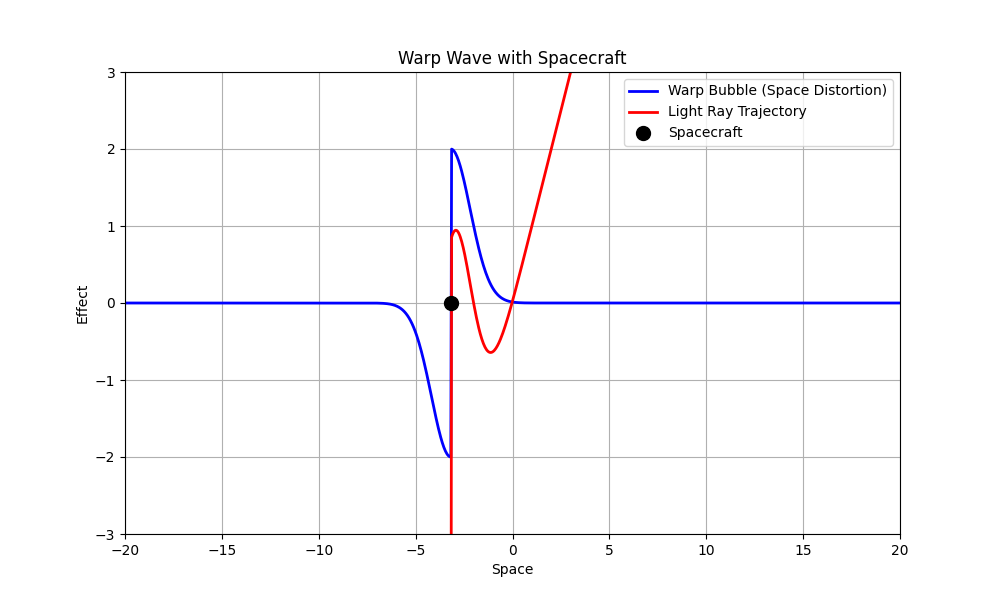
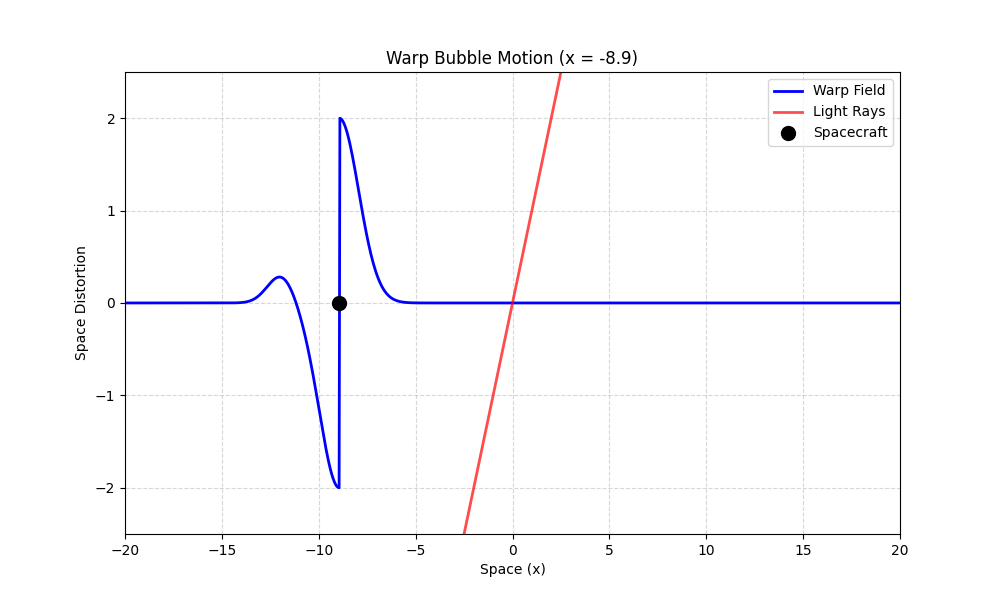
modified:   warp.png modified:   warp.py modified:   warp_wave_simulation.gif

diff --git a/warp.py b/warp.py
@@ -1,97 +1,87 @@
 import numpy as np
 import matplotlib.pyplot as plt
 from matplotlib.animation import FuncAnimation
+from PIL import Image  # For GIF export (optional)
 
-# Define the warp bubble function with space contraction and expansion
+# ===== Physics Functions =====
 def warp_bubble(x, x0, sigma, contraction_strength=1.0, expansion_strength=1.0):
-    """
-    x: Position in space
-    x0: Center of the warp bubble
-    sigma: Width of the warp bubble
-    contraction_strength: Strength of space contraction in front of the bubble
-    expansion_strength: Strength of space expansion behind the bubble
-    """
-    # Gaussian-shaped warp bubble
+    """Generates a warp bubble with contraction, expansion, and a wake effect."""
     bubble = np.exp(-((x - x0) ** 2) / (2 * sigma ** 2))
-    
-    # Space contraction in front of the bubble (x < x0)
     contraction = -contraction_strength * bubble * (x < x0)
-    
-    # Space expansion behind the bubble (x > x0)
     expansion = expansion_strength * bubble * (x > x0)
-    
-    # Combine contraction and expansion
-    return contraction + expansion
+    wake = 0.3 * np.exp(-((x - x0 + 3) ** 2)) * (x < x0)  # Trailing wake
+    return contraction + expansion + wake
 
-# Simulate light rays passing through the warp bubble
 def light_ray_trajectory(x, warp_field, bending_strength=1.0):
-    """
-    Simulate light rays bending due to the warp bubble.
-    bending_strength: Controls how much the light rays bend.
-    """
-    return x + bending_strength * warp_field  # Adjust bending strength
+    """Simulates light bending due to the warp field (nonlinear effect)."""
+    return x + bending_strength * np.sin(warp_field)  # Nonlinear distortion
 
-# Initialize the animation
+# ===== Animation Setup =====
 def init_animation():
-    """
-    Initialize the animation with empty data.
-    """
+    """Initialize empty plot."""
     line_warp.set_data([], [])
     line_light.set_data([], [])
     spacecraft.set_data([], [])
     return line_warp, line_light, spacecraft
 
-# Update function for the animation
 def update_animation(frame):
-    """
-    Update the animation for each frame.
-    """
-    x0 = x0_values[frame]  # Current position of the warp bubble
-    warp_field = warp_bubble(x, x0, sigma, contraction_strength, expansion_strength)  # Calculate the warp bubble
-    light_rays = light_ray_trajectory(x, warp_field, bending_strength)  # Calculate light ray trajectories
+    """Update the plot for each frame."""
+    x0 = x0_values[frame]
+    warp_field = warp_bubble(x, x0, sigma, contraction_strength, expansion_strength)
+    light_rays = light_ray_trajectory(x, warp_field, bending_strength)
     
-    # Update the plot
+    # Update plot data
     line_warp.set_data(x, warp_field)
     line_light.set_data(x, light_rays)
-    spacecraft.set_data([x0], [0])  # Spacecraft is at the center of the warp bubble
+    spacecraft.set_data([x0], [0])
+    
+    # Dynamic y-axis scaling
+    ax.set_ylim(np.min(warp_field) - 0.5, np.max(warp_field) + 0.5)
+    ax.set_title(f"Warp Bubble Motion (x = {x0:.1f})")
     return line_warp, line_light, spacecraft
 
-# Main function to run the simulation
-def main():
-    """
-    Main function to set up and run the warp drive simulation.
-    """
-    global x, sigma, contraction_strength, expansion_strength, bending_strength, num_frames, x0_values
-    global line_warp, line_light, spacecraft
+# ===== Main Simulation =====
+def main(save_gif=False):
+    global x, sigma, contraction_strength, expansion_strength, bending_strength
+    global num_frames, x0_values, line_warp, line_light, spacecraft, ax
 
     # Parameters
-    x = np.linspace(-20, 20, 1000)  # Space coordinates (extended range)
-    sigma = 1  # Width of the warp bubble
-    contraction_strength = 2.0  # Strength of space contraction
-    expansion_strength = 2.0  # Strength of space expansion
-    bending_strength = 2.0  # Increase bending effect for better visibility
-    num_frames = 100  # Number of animation frames
-    x0_values = np.linspace(-15, 15, num_frames)  # Move the warp bubble from x = -15 to x = 15
+    x = np.linspace(-20, 20, 1000)  # Space coordinates
+    sigma = 1.0                      # Warp bubble width
+    contraction_strength = 2.0       # Front contraction strength
+    expansion_strength = 2.0         # Rear expansion strength
+    bending_strength = 2.0           # Light bending magnitude
+    num_frames = 100                 # Animation frames
+    x0_values = np.linspace(-15, 15, num_frames)  # Warp bubble path
 
-    # Set up the plot
+    # Plot setup
     fig, ax = plt.subplots(figsize=(10, 6))
-    line_warp, = ax.plot([], [], label="Warp Bubble (Space Distortion)", color="blue", linewidth=2)
-    line_light, = ax.plot([], [], label="Light Ray Trajectory", color="red", linewidth=2)
-    spacecraft, = ax.plot([], [], 'ko', markersize=10, label="Spacecraft")  # Spacecraft marker
+    line_warp, = ax.plot([], [], label="Warp Field", color="blue", lw=2)
+    line_light, = ax.plot([], [], label="Light Rays", color="red", lw=2, alpha=0.7)
+    spacecraft, = ax.plot([], [], 'ko', markersize=10, label="Spacecraft")
+    
+    # Styling
     ax.set_xlim(-20, 20)
     ax.set_ylim(-3, 3)
-    ax.set_xlabel("Space")
-    ax.set_ylabel("Effect")
-    ax.set_title("Warp Wave with Spacecraft")
-    ax.legend()
-    ax.grid()
+    ax.set_xlabel("Space (x)")
+    ax.set_ylabel("Space Distortion")
+    ax.grid(True, linestyle="--", alpha=0.5)
+    ax.legend(loc="upper right")
 
-    # Create the animation
-    ani = FuncAnimation(fig, update_animation, frames=num_frames, init_func=init_animation, blit=True, interval=50)
+    # Create animation
+    ani = FuncAnimation(
+        fig, update_animation, frames=num_frames,
+        init_func=init_animation, blit=False, interval=50
+    )
 
-    # Show the animation
+    # Save as GIF (optional)
+    if save_gif:
+        print("Saving GIF... (this may take a moment)")
+        ani.save("warp_wave_simulation.gif", writer="pillow", fps=30, dpi=300)
+        print("GIF saved as 'warp_drive.gif'")
+
     plt.show()
 
-# Run the simulation
+# ===== Run Simulation =====
 if __name__ == "__main__":
-    main()
+    main(save_gif=True)  # Set `save_gif=False` to disable export
